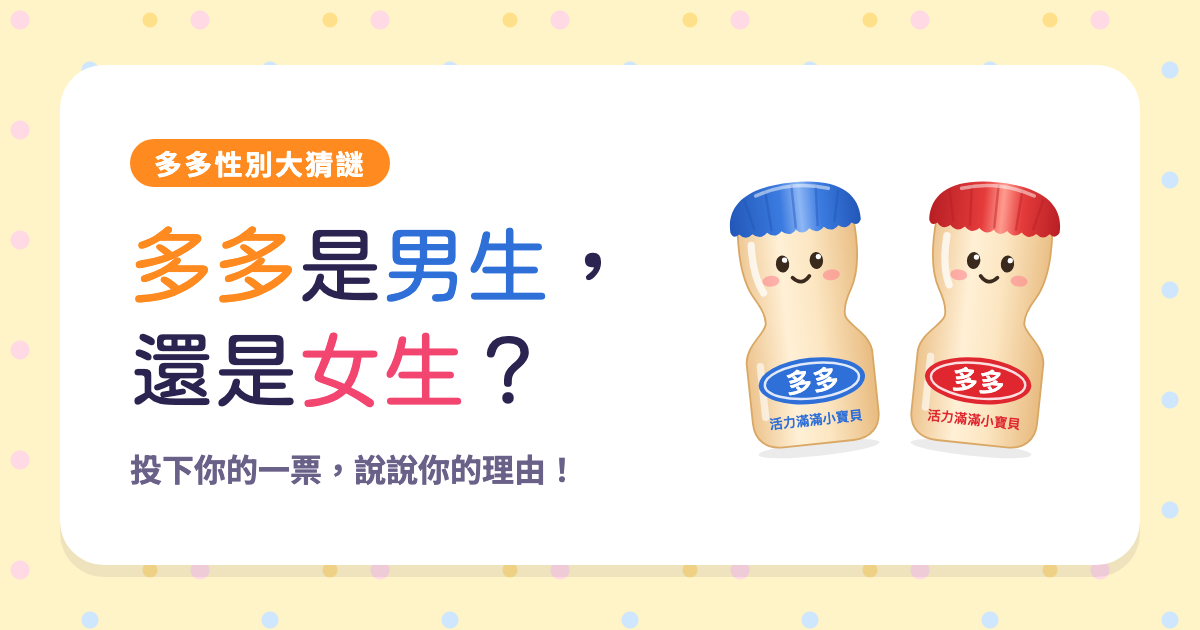
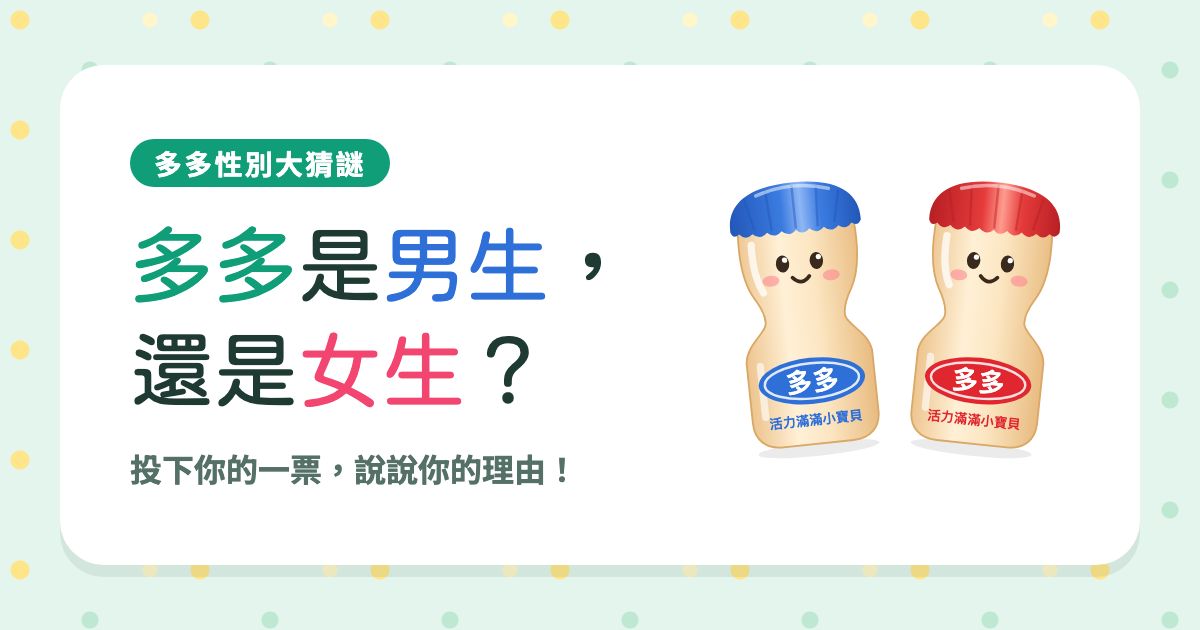
feat: mint gender-neutral theme for friends edition; fix hidden sections showing

diff --git a/style.css b/style.css
@@ -1,28 +1,30 @@
-/* Layout: one narrow column; sunny duck-pond palette, confetti dots on the page, boy blue vs bubblegum pink as the two big choices */
+/* Layout: one narrow column; mint-garden palette (gender-neutral greens + lemon), confetti dots on the page, boy blue vs bubblegum pink as the two big choices */
 :root {
-  --bg: #fff4c7;
-  --dot-1: #ffd9e3;
-  --dot-2: #cfe6ff;
-  --dot-3: #ffe08a;
+  --bg: #e3f5ec;
+  --dot-1: #ffe58a;
+  --dot-2: #bfe8d3;
+  --dot-3: #fff6c9;
   --surface: #ffffff;
-  --ink: #2b2350;
-  --muted: #6a6189;
-  --line: #f0dfa6;
+  --ink: #1e3a32;
+  --muted: #557066;
+  --line: #c6e3d4;
   --boy: #2e6fd8;
   --boy-soft: #dcebff;
   --girl: #f2456f;
   --girl-soft: #ffe0e8;
-  --sun: #ff8a1f;
-  --spring: #12a594;
-  --spring-soft: #d7f5ef;
+  --sun: #0f9e78;
+  --sun-deep: #0a7457;
+  --spring: #9a6a00;
+  --spring-soft: #fff0b8;
   --danger: #c62828;
   --font-display: "Huninn", "Noto Sans TC", "PingFang TC", "Microsoft JhengHei", sans-serif;
   --font-body: "Noto Sans TC", "PingFang TC", "Microsoft JhengHei", system-ui, sans-serif;
   --radius: 20px;
-  --shadow: 0 6px 0 rgba(43, 35, 80, .08);
-  color-scheme: light; /* one sunny look on purpose, in light and dark mode alike */
+  --shadow: 0 6px 0 rgba(30, 58, 50, .08);
+  color-scheme: light; /* one mint look on purpose, in light and dark mode alike */
 }
 * { box-sizing: border-box; }
+[hidden] { display: none !important; }
 html { -webkit-text-size-adjust: 100%; }
 body {
   margin: 0;
@@ -118,9 +120,9 @@ fieldset { border: 0; padding: 0; margin: 0; display: grid; gap: 8px; }
 button.primary {
   font: inherit; font-family: var(--font-display); font-size: 1.2rem; border: 0; cursor: pointer;
   background: var(--sun); color: #fff; border-radius: 999px; padding: 14px 20px;
-  box-shadow: 0 5px 0 #d06a0a; transition: transform .1s, box-shadow .1s;
+  box-shadow: 0 5px 0 var(--sun-deep); transition: transform .1s, box-shadow .1s;
 }
-button.primary:active { transform: translateY(3px); box-shadow: 0 2px 0 #d06a0a; }
+button.primary:active { transform: translateY(3px); box-shadow: 0 2px 0 var(--sun-deep); }
 button.primary:disabled { opacity: .55; cursor: wait; }
 button.ghost {
   font: inherit; background: var(--surface); color: var(--ink); cursor: pointer;

diff --git a/index.html b/index.html
@@ -5,7 +5,7 @@
 <meta name="viewport" content="width=device-width, initial-scale=1, viewport-fit=cover">
 <title>多多性別大猜謎</title>
 <meta name="description" content="投下你的一票，說說你為什麼這樣猜！夢到的、擲筊問的、問過家裡貓咪的都可以！">
-<meta name="theme-color" content="#ff8a1f">
+<meta name="theme-color" content="#0f9e78">
 <link rel="canonical" href="https://heronyang.github.io/gender-reveal-friends/">
 <!-- 分享預覽：Facebook、LINE、Instagram、Messenger、WhatsApp -->
 <meta property="og:type" content="website">
@@ -14,8 +14,8 @@
 <meta property="og:url" content="https://heronyang.github.io/gender-reveal-friends/">
 <meta property="og:title" content="多多是男生，還是女生？快來猜猜看！">
 <meta property="og:description" content="投下你的一票，說說你為什麼這樣猜！夢到的、擲筊問的、問過家裡貓咪的都可以！">
-<meta property="og:image" content="https://heronyang.github.io/gender-reveal-friends/og-image.png">
-<meta property="og:image:secure_url" content="https://heronyang.github.io/gender-reveal-friends/og-image.png">
+<meta property="og:image" content="https://heronyang.github.io/gender-reveal-friends/og-image.png?v=2">
+<meta property="og:image:secure_url" content="https://heronyang.github.io/gender-reveal-friends/og-image.png?v=2">
 <meta property="og:image:type" content="image/png">
 <meta property="og:image:width" content="1200">
 <meta property="og:image:height" content="630">
@@ -24,7 +24,7 @@
 <meta name="twitter:card" content="summary_large_image">
 <meta name="twitter:title" content="多多是男生，還是女生？快來猜猜看！">
 <meta name="twitter:description" content="投下你的一票，說說你為什麼這樣猜！夢到的、擲筊問的、問過家裡貓咪的都可以！">
-<meta name="twitter:image" content="https://heronyang.github.io/gender-reveal-friends/og-image.png">
+<meta name="twitter:image" content="https://heronyang.github.io/gender-reveal-friends/og-image.png?v=2">
 <link rel="icon" href="bottle-red.svg" type="image/svg+xml">
 <link rel="icon" href="apple-touch-icon.png" type="image/png" sizes="180x180">
 <link rel="apple-touch-icon" href="apple-touch-icon.png">

diff --git a/results.html b/results.html
@@ -6,7 +6,7 @@
 <meta name="robots" content="noindex">
 <title>多多投票結果</title>
 <meta name="description" content="投下你的一票，說說你為什麼這樣猜！">
-<meta name="theme-color" content="#ff8a1f">
+<meta name="theme-color" content="#0f9e78">
 <!-- 分享預覽：Facebook、LINE、Instagram、Messenger、WhatsApp -->
 <meta property="og:type" content="website">
 <meta property="og:site_name" content="多多性別大猜謎">
@@ -14,8 +14,8 @@
 <meta property="og:url" content="https://heronyang.github.io/gender-reveal-friends/">
 <meta property="og:title" content="多多是男生，還是女生？快來猜猜看！">
 <meta property="og:description" content="投下你的一票，說說你為什麼這樣猜！">
-<meta property="og:image" content="https://heronyang.github.io/gender-reveal-friends/og-image.png">
-<meta property="og:image:secure_url" content="https://heronyang.github.io/gender-reveal-friends/og-image.png">
+<meta property="og:image" content="https://heronyang.github.io/gender-reveal-friends/og-image.png?v=2">
+<meta property="og:image:secure_url" content="https://heronyang.github.io/gender-reveal-friends/og-image.png?v=2">
 <meta property="og:image:type" content="image/png">
 <meta property="og:image:width" content="1200">
 <meta property="og:image:height" content="630">
@@ -24,7 +24,7 @@
 <meta name="twitter:card" content="summary_large_image">
 <meta name="twitter:title" content="多多是男生，還是女生？快來猜猜看！">
 <meta name="twitter:description" content="投下你的一票，說說你為什麼這樣猜！">
-<meta name="twitter:image" content="https://heronyang.github.io/gender-reveal-friends/og-image.png">
+<meta name="twitter:image" content="https://heronyang.github.io/gender-reveal-friends/og-image.png?v=2">
 <link rel="icon" href="bottle-red.svg" type="image/svg+xml">
 <link rel="icon" href="apple-touch-icon.png" type="image/png" sizes="180x180">
 <link rel="apple-touch-icon" href="apple-touch-icon.png">
